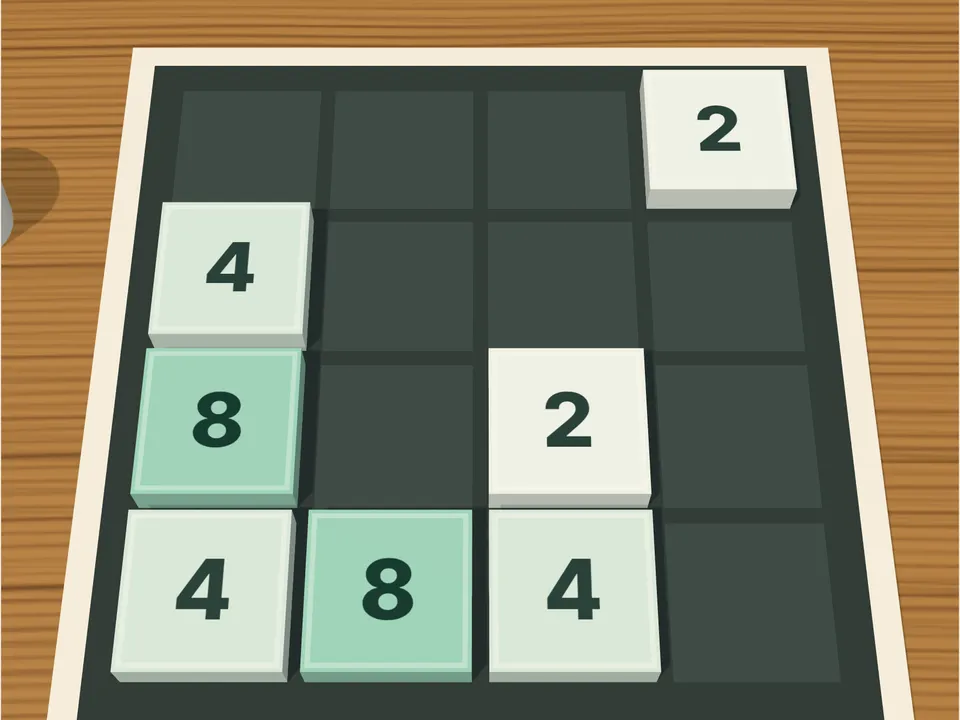
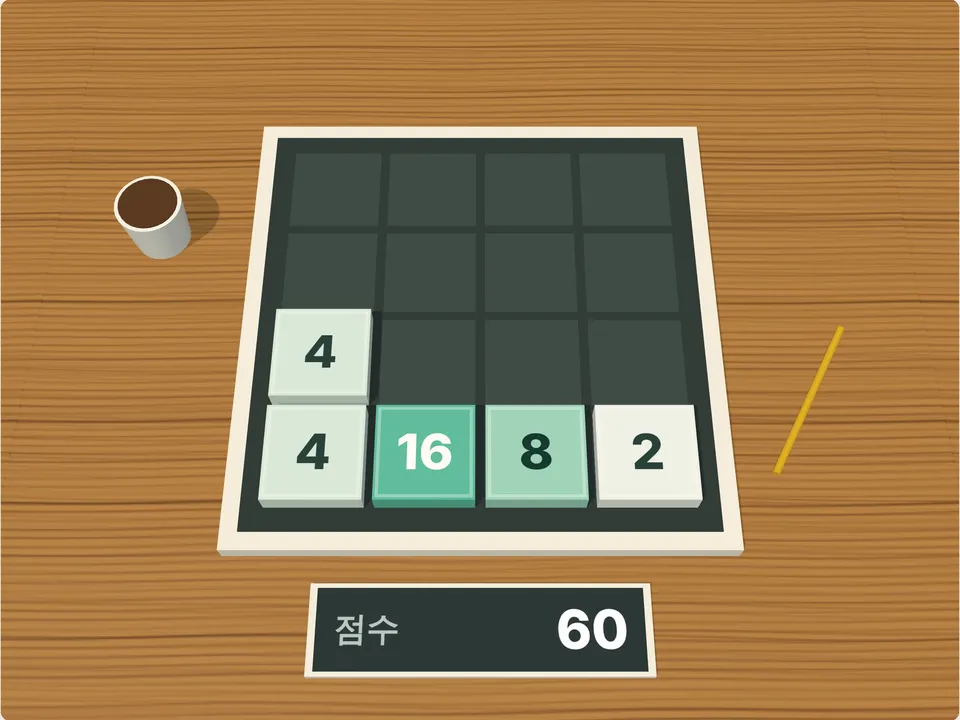
2048 without a panel, its score on a card on the desk; deeper-looking peg hollows
Claude-Session: https://claude.ai/code/session_01Uedx1uYtd54DPXXtQh77nN

diff --git a/src/games/merge/view.ts b/src/games/merge/view.ts
@@ -9,7 +9,9 @@ export const MERGE_COLORS: [string, string] = ["#2f7d6d", "#b9b3a4"];
 const CELL = 1.5,
   GAP = 0.14,
   THICK = 0.34;
-const where = (i: number) => ({ x: ((i % N) - (N - 1) / 2) * CELL, z: (Math.floor(i / N) - (N - 1) / 2) * CELL });
+/** The tray lies a little toward the far side, to leave room for the score before it. */
+const OZ = -0.7;
+const where = (i: number) => ({ x: ((i % N) - (N - 1) / 2) * CELL, z: (Math.floor(i / N) - (N - 1) / 2) * CELL + OZ });
 /** Glazed tiles, deeper in colour the larger the number. */
 const GLAZE: Record<number, [string, string]> = {
   2: ["#eef3ee", "#27413b"],
@@ -30,6 +32,8 @@ export class MergeView extends TableView<State> {
   private box: T.BufferGeometry;
   private faces = new Map<number, T.Material[]>();
   private from: { x: number; z: number } | null = null;
+  /** A card on the desk before the tray with the score written on it. */
+  private card: { canvas: HTMLCanvasElement; texture: T.CanvasTexture; said: number };
   constructor(host: HTMLElement, quality: "high" | "low") {
     super(host, quality, "#c9d3cf");
     this.daylight("#ffffff", "#8c9a94", "#fff4dc", 8, 1.5);
@@ -38,8 +42,20 @@ export class MergeView extends TableView<State> {
     this.add(new T.BoxGeometry(40, 0.4, 30), this.standard({ map: desk, color: "#e8d9bd", roughness: 0.6 }), 0, -0.5, 0).castShadow = false;
     // The tray: a dark slate bed with a pale rim and a hollow for each tile.
     const side = N * CELL + 0.5;
-    this.add(new T.BoxGeometry(side + 0.5, 0.3, side + 0.5), this.standard({ color: "#f3efe4", roughness: 0.5 }), 0, -0.15, 0);
-    this.add(new T.BoxGeometry(side, 0.3, side), this.standard({ color: "#2c3836", roughness: 0.9 }), 0, -0.12, 0).castShadow = false;
+    this.add(new T.BoxGeometry(side + 0.5, 0.3, side + 0.5), this.standard({ color: "#f3efe4", roughness: 0.5 }), 0, -0.15, OZ);
+    this.add(new T.BoxGeometry(side, 0.3, side), this.standard({ color: "#2c3836", roughness: 0.9 }), 0, -0.12, OZ).castShadow = false;
+    // The score card: dark slate like the tray, lying flat between the tray and me.
+    const canvas = document.createElement("canvas");
+    canvas.width = 768;
+    canvas.height = 192;
+    const texture = this.own(new T.CanvasTexture(canvas));
+    texture.colorSpace = T.SRGBColorSpace;
+    texture.anisotropy = 4;
+    this.add(new T.BoxGeometry(4.5, 0.12, 1.2), this.standard({ color: "#f3efe4", roughness: 0.5 }), 0, -0.24, OZ + side / 2 + 1.25);
+    const face = this.add(new T.PlaneGeometry(4.3, 1.075), this.own(new T.MeshBasicMaterial({ map: texture })), 0, -0.175, OZ + side / 2 + 1.25);
+    face.rotation.x = -Math.PI / 2;
+    face.castShadow = false;
+    this.card = { canvas, texture, said: -1 };
     const hollow = this.own(new T.BoxGeometry(CELL - GAP, 0.02, CELL - GAP)),
       bed = this.standard({ color: "#3b4a47", roughness: 1 });
     for (let i = 0; i < N * N; i++) {
@@ -49,10 +65,10 @@ export class MergeView extends TableView<State> {
       this.scene.add(mesh);
     }
     // A pencil and a cup beside the tray: nothing of them reaches over it.
-    const pencil = this.add(new T.CylinderGeometry(0.06, 0.06, 2.6, 6), this.standard({ color: "#e0b020" }), side / 2 + 1.5, -0.24, 1.2);
+    const pencil = this.add(new T.CylinderGeometry(0.06, 0.06, 2.6, 6), this.standard({ color: "#e0b020" }), side / 2 + 1.5, -0.24, 1.2 + OZ);
     pencil.rotation.set(Math.PI / 2, 0, 0.5);
-    this.add(new T.CylinderGeometry(0.5, 0.42, 0.9, 28), this.standard({ color: "#f6f3ea", roughness: 0.3 }), -side / 2 - 1.7, 0.15, -1.6);
-    this.add(new T.CylinderGeometry(0.44, 0.44, 0.02, 28), this.standard({ color: "#5a3a22", roughness: 0.4 }), -side / 2 - 1.7, 0.55, -1.6).castShadow = false;
+    this.add(new T.CylinderGeometry(0.5, 0.42, 0.9, 28), this.standard({ color: "#f6f3ea", roughness: 0.3 }), -side / 2 - 1.7, 0.15, -1.6 + OZ);
+    this.add(new T.CylinderGeometry(0.44, 0.44, 0.02, 28), this.standard({ color: "#5a3a22", roughness: 0.4 }), -side / 2 - 1.7, 0.605, -1.6 + OZ).castShadow = false;
     this.box = this.own(new T.BoxGeometry(CELL - GAP, THICK, CELL - GAP));
     for (let i = 0; i < N * N; i++) {
       const mesh = new T.Mesh(this.box, this.face(2));
@@ -93,7 +109,7 @@ export class MergeView extends TableView<State> {
     return made;
   }
   protected subject(aspect: number): TableSubject {
-    return { half: aspect < 1 ? 3.7 : 4.6, halfZ: 4.1, height: 0.5, lookY: 0, tilt: 1.12 };
+    return { half: aspect < 1 ? 3.7 : 4.6, halfZ: 4.7, height: 0.5, lookY: 0, tilt: 1.12 };
   }
   protected spots(): Spot[] {
     return [];
@@ -108,8 +124,27 @@ export class MergeView extends TableView<State> {
       mesh.scale.setScalar(1);
     });
   }
+  /** Writes the score on its card. */
+  private say(score: number) {
+    if (this.card.said === score) return;
+    this.card.said = score;
+    const ctx = this.card.canvas.getContext("2d")!;
+    ctx.fillStyle = "#2c3836";
+    ctx.fillRect(0, 0, 768, 192);
+    ctx.textBaseline = "middle";
+    ctx.textAlign = "left";
+    ctx.fillStyle = "#b9c7c1";
+    ctx.font = '700 76px "Apple SD Gothic Neo", "Malgun Gothic", "Noto Sans KR", sans-serif';
+    ctx.fillText("점수", 44, 100);
+    ctx.textAlign = "right";
+    ctx.fillStyle = "#ffffff";
+    ctx.font = '800 124px "Helvetica Neue", Arial, sans-serif';
+    ctx.fillText(String(score), 728, 104);
+    this.card.texture.needsUpdate = true;
+  }
   protected place(state: State) {
     this.put(state.cells);
+    this.say(state.score);
   }
   protected animate(before: State, state: State) {
     const last = state.last;
@@ -130,6 +165,7 @@ export class MergeView extends TableView<State> {
       if (!laid) {
         laid = true;
         this.put(state.cells);
+        this.say(state.score);
         this.onContact();
       }
       const swell = 1 + Math.sin(p * Math.PI) * 0.16;

diff --git a/src/games/merge/config.ts b/src/games/merge/config.ts
@@ -7,6 +7,8 @@ const KEYS: Record<string, number> = { ArrowUp: UP, ArrowRight: RIGHT, ArrowDown
 export const mergeConfig: PointConfig<State> = {
   game: merge,
   solo: true,
+  // No panel: the score is written on a card on the desk, before the tray.
+  noPanel: true,
   noUndo: true,
   view: (host, quality) => new MergeView(host, quality),
   colors: MERGE_COLORS,
@@ -27,7 +29,7 @@ export const mergeConfig: PointConfig<State> = {
   rulesTitle: "같은 수끼리 합쳐 2048까지",
   rules:
     part("기본 규칙", steps("가로세로 네 칸씩, 열여섯 칸의 판에 2가 적힌 타일 두 개로 시작합니다.", "위·아래·왼쪽·오른쪽 가운데 <b>한쪽으로 밀면</b> 모든 타일이 그쪽 끝까지 미끄러집니다.", "밀리다가 <b>같은 수의 타일 둘이 만나면 하나로 합쳐져</b> 두 배가 됩니다. 합쳐진 수만큼 점수를 얻습니다.", "한 번 밀 때마다 빈칸 하나에 새 타일(2, 가끔 4)이 생깁니다.", `<b>${GOAL} 타일을 만들면 성공</b>입니다. 판이 가득 차고 합칠 곳이 없으면 끝납니다.`)) +
-    part("밀기", table(["쓸기", "판 위를 손가락이나 마우스로 밀고 싶은 쪽으로 쓸어 줍니다."], ["방향키", "키보드의 ↑ ↓ ← → 로도 밉니다."], ["밀리지 않는 쪽", "아무 타일도 움직이지 않는 쪽으로는 밀 수 없고, 새 타일도 생기지 않습니다."])) +
+    part("밀기", table(["쓸기", "판 위를 손가락이나 마우스로 밀고 싶은 쪽으로 쓸어 줍니다."], ["방향키", "키보드의 ↑ ↓ ← → 로도 밉니다."], ["밀리지 않는 쪽", "아무 타일도 움직이지 않는 쪽으로는 밀 수 없고, 새 타일도 생기지 않습니다."], ["점수판", "판 아래쪽, 내 앞에 놓인 판에 지금까지의 총점이 적혀 있습니다."])) +
     part("합치기", table(["한 번에 한 번", "한 타일은 한 번 밀 때 한 번만 합쳐집니다. 2 2 2 2를 밀면 4 4가 되고, 8이 되지는 않습니다."], ["미는 쪽부터", "미는 쪽 끝에 가까운 타일부터 합쳐집니다. 2 2 2를 왼쪽으로 밀면 4 2가 됩니다."], ["점수", "합쳐서 생긴 수가 점수에 더해집니다."])) +
     part("처음이라면", notes("가장 큰 타일을 <b>한쪽 구석</b>에 두고 그 구석에서 떼지 않습니다.", "주로 두 방향(예: 아래와 왼쪽)으로만 밀고, 나머지 한 방향은 꼭 필요할 때만 씁니다.", "큰 수 옆에 그다음 큰 수가 오도록 한 줄로 차례대로 늘어놓으면 연달아 합쳐집니다.")),
   help: "마우스·터치: 판 위를 밀 쪽으로 쓸어 줍니다<br>키보드: 방향키",

diff --git a/src/games/peg/board.ts b/src/games/peg/board.ts
@@ -23,13 +23,26 @@ export const pegBoard = (): BoardSpec => ({
     ctx.stroke();
     for (const p of points) {
       const [cx, cy] = px(p.x, p.z),
-        shade = ctx.createRadialGradient(cx, cy - unit * 0.05, unit * 0.04, cx, cy, unit * 0.27);
-      shade.addColorStop(0, "rgba(30, 18, 8, 0.75)");
-      shade.addColorStop(1, "rgba(30, 18, 8, 0.25)");
+        r = unit * 0.28,
+        // Darkest under the far lip, where the light does not reach, and paler toward the near side.
+        shade = ctx.createRadialGradient(cx, cy - r * 0.38, r * 0.08, cx, cy, r);
+      shade.addColorStop(0, "rgba(22, 12, 5, 0.92)");
+      shade.addColorStop(0.6, "rgba(30, 18, 8, 0.66)");
+      shade.addColorStop(1, "rgba(30, 18, 8, 0.38)");
       ctx.fillStyle = shade;
       ctx.beginPath();
-      ctx.arc(cx, cy, unit * 0.27, 0, Math.PI * 2);
+      ctx.arc(cx, cy, r, 0, Math.PI * 2);
       ctx.fill();
+      // The lip: a dark edge on the far side and a line of light on the near one.
+      ctx.lineWidth = unit * 0.022;
+      ctx.strokeStyle = "rgba(18, 9, 3, 0.55)";
+      ctx.beginPath();
+      ctx.arc(cx, cy, r, Math.PI * 1.08, Math.PI * 1.92);
+      ctx.stroke();
+      ctx.strokeStyle = "rgba(255, 236, 200, 0.5)";
+      ctx.beginPath();
+      ctx.arc(cx, cy, r, Math.PI * 0.12, Math.PI * 0.88);
+      ctx.stroke();
     }
     ctx.restore();
   },

diff --git a/tests/e2e/solo-games.spec.ts b/tests/e2e/solo-games.spec.ts
@@ -56,7 +56,10 @@ test("peg solitaire: a marble jumps into the middle, and the jump is taken back"
 
 test("2048: the arrow keys and a swipe slide the tiles", async ({ page }) => {
   const errors = await sit(page, "2048");
+  // No panel beside the table; the figures stay in the page for readers.
+  await expect(page.locator(".game-layout")).toHaveClass(/no-panel/);
   await expect(page.locator(".solo-stat")).toHaveCount(2);
+  expect((await page.locator(".game-sidebar").boundingBox())!.width).toBeLessThanOrEqual(1);
   await expect(page.getByRole("button", { name: "무르기", exact: true })).toBeHidden();
   // Two tiles on sixteen squares: at least one of the four ways moves something.
   for (const key of ["ArrowLeft", "ArrowDown", "ArrowRight", "ArrowUp"]) {
@@ -77,7 +80,8 @@ test("2048: the arrow keys and a swipe slide the tiles", async ({ page }) => {
     await rest(page);
   }
   await expect(count(page)).not.toHaveText(before);
-  await expect(page.locator("#turn")).toContainText("가장 큰 수");
+  await expect(page.locator("#turn")).toContainText("같은 수끼리 합치세요");
+  await expect(page.locator("#pg-count-0")).toContainText("가장 큰 수");
   expect(errors).toEqual([]);
 });
 

diff --git a/src/games/merge/rules.ts b/src/games/merge/rules.ts
@@ -96,7 +96,8 @@ export const merge: PointGame<State> = {
   effect,
   ply: (s) => s.ply,
   evaluate: (s) => s.score,
-  hint: (s) => `점수 ${s.score} · 가장 큰 수 ${best(s)} · 타일을 한쪽으로 밀어 같은 수끼리 합치세요.`,
+  // The score stands on its own card on the desk; the line over the table says only what to do.
+  hint: () => "타일을 한쪽으로 밀어 같은 수끼리 합치세요.",
   tally: (s) => [`점수 ${s.score} · 가장 큰 수 ${best(s)}`, ""],
   reason: (s) => (s.winner === 0 ? `${GOAL}을 만들었습니다! 점수 ${s.score}.` : `더 밀 수 있는 곳이 없습니다. 가장 큰 수 ${best(s)}, 점수 ${s.score}.`),
 };

diff --git a/README.md b/README.md
@@ -305,7 +305,7 @@ CHROMIUM_PATH=/usr/bin/chromium npm run test:e2e
 
 ## 혼자 하는 퍼즐: 블록 내리기·2048·벽돌깨기·페그 솔리테어
 
-네 게임은 상대도 컴퓨터도 없는 1인 게임입니다(`PointConfig.solo`). 같은 화면(`src/ui/point-game.ts`)에 얹었고, 옆 패널에는 점수 같은 숫자만 크게 나옵니다. 컬렉션에는 **퍼즐게임** 분류가 생겼습니다. 모두 38종입니다.
+네 게임은 상대도 컴퓨터도 없는 1인 게임입니다(`PointConfig.solo`). 같은 화면(`src/ui/point-game.ts`)에 얹었고, 블록 내리기와 벽돌깨기는 옆 패널에 점수 같은 숫자만 크게 나옵니다. 컬렉션에는 **퍼즐게임** 분류가 생겼습니다. 모두 38종입니다.
 
 | 게임 | 규칙 | 조작 |
 | --- | --- | --- |
@@ -319,6 +319,8 @@ CHROMIUM_PATH=/usr/bin/chromium npm run test:e2e
 - **실시간 판**(`PointConfig.live`): 판이 알리는 수는 '바쁨'을 이유로 거절되지 않고, 무르기 기록에 남지 않습니다. 창이 열려 있거나 화면이 가려지면 시계와 공이 멈춥니다.
 - **키가 곧 수인 게임**(`keyMove`): 방향키·스페이스가 바로 수가 됩니다. 판을 먼저 누르지 않아도 듣습니다.
 - 결과 창의 그림은 성공이면 트로피, 아니면 우는 얼굴입니다.
+- **2048에는 옆 패널이 없습니다.** 총점은 판 아래쪽, 책상 위에 놓인 점수판에 적힙니다(`MergeView.say`). 판 위 안내 문구에는 하는 법만 나옵니다.
+- **페그 솔리테어의 홈**은 먼 쪽 턱은 어둡게, 가까운 쪽 턱은 밝게 칠해 조금 더 깊어 보입니다.
 
 ## 게임 화면의 배치
 

diff --git a/AGENTS.md b/AGENTS.md
@@ -87,3 +87,4 @@
 - A table that runs in real time sets `PointConfig.live`: what it reports is never refused as busy and nothing is kept for undo; its view overrides `animating` to false and stops its own clock while a dialog is open or the page is hidden. In falling blocks every change, the clock's fall (`TICK`) included, is a move through `play` and the view only keeps the clock; brick breaker steps `bricks/sim.ts` in the view and reports bricks, lost balls and cleared walls. `keyMove` makes a key a whole move and is heard from the page as well as from the canvas.
 - Indian poker has two signs on posts either side of the figure: the pot on the left, the round (n/10) on the right (`say`). The user asked for both; they stand above the chips so that nothing hides them.
 - `scripts/capture-thumbs.mjs` must hide the status line with `html[data-capture] .game-layout .board-area > .board-hint` (the plain `.board-hint` rule loses to the layout's own `!important`).
+- 2048 has no side panel (`noPanel`; the user asked): its total score is written on a card lying on the desk before the tray (`MergeView.say`), part of the scene, and the status line says only what to do. The figures stay in the unseen panel for readers. The peg solitaire hollows are painted with a dark far lip and a light near one so that they look a little deeper (the user asked for slightly, not more).
